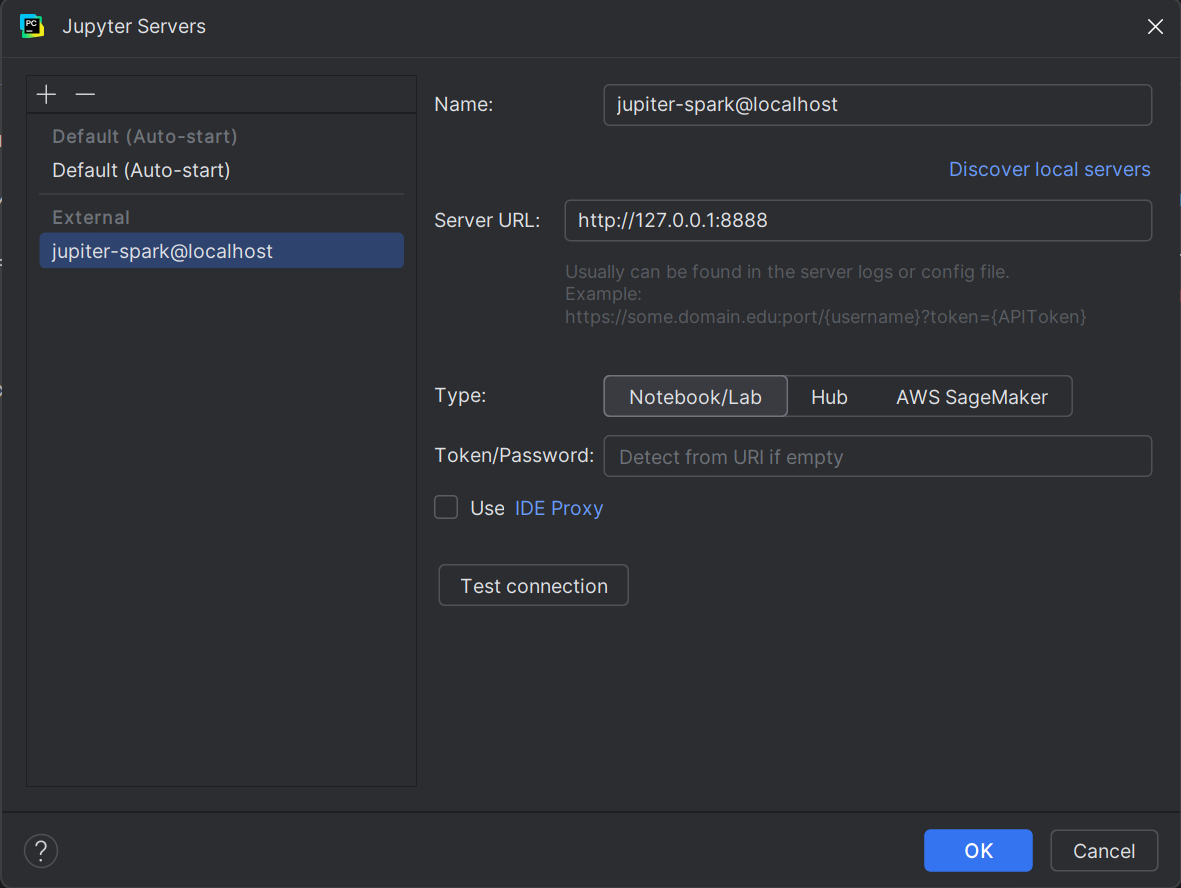
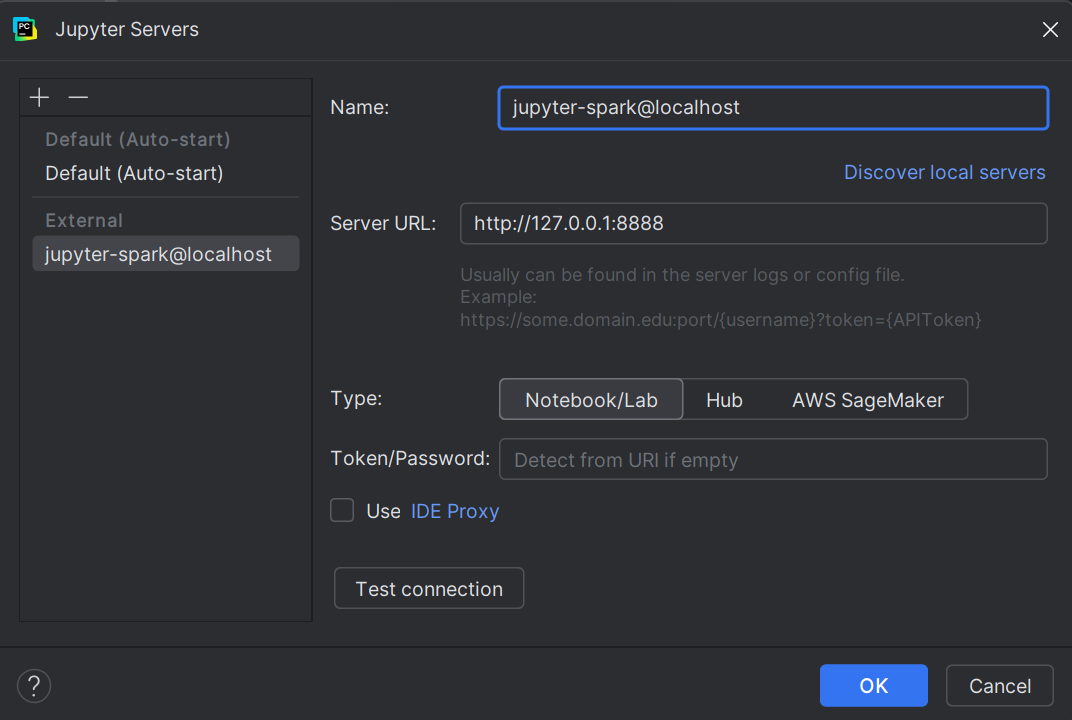
[docker] add Jupyter+Spark Dockerfile

diff --git a/docker/jupyter-spark/README.md b/docker/jupyter-spark/README.md
@@ -32,4 +32,4 @@ docker logs custom-jupyter-spark
 После запуска контейнера в логах контейнера можно увидеть ссылку на Jupyter Notebook (http://localhost:8888). Для использования с IDE сконфигурировать external server в настройках IDE, используя указанную ссылку.
 
 Пример настройки для PyCharm:
-![ide-external-server-settings.png](ide-external-server-settings.png)
+![ide-external-server-settings.png](./ide-external-server-settings.png)

diff --git a/README.md b/README.md
@@ -4,5 +4,5 @@
 Репозиторий для хранения решений задач из курсов Yandex Practicum
 
 ## Course Links
-- [Docker](./docker/README.md), сбоник полезных Dockerfiles для использования в проектах
+- [Docker](./docker/README.md), сборник полезных Dockerfiles для использования в проектах
 - [Data Science](./data-science/README.md), курс Data Science
